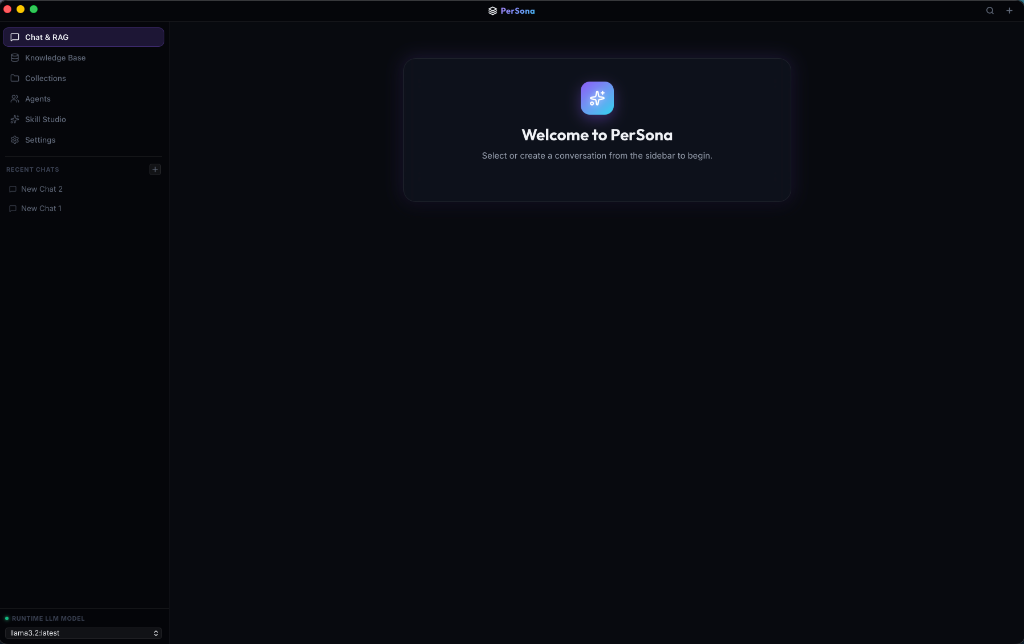
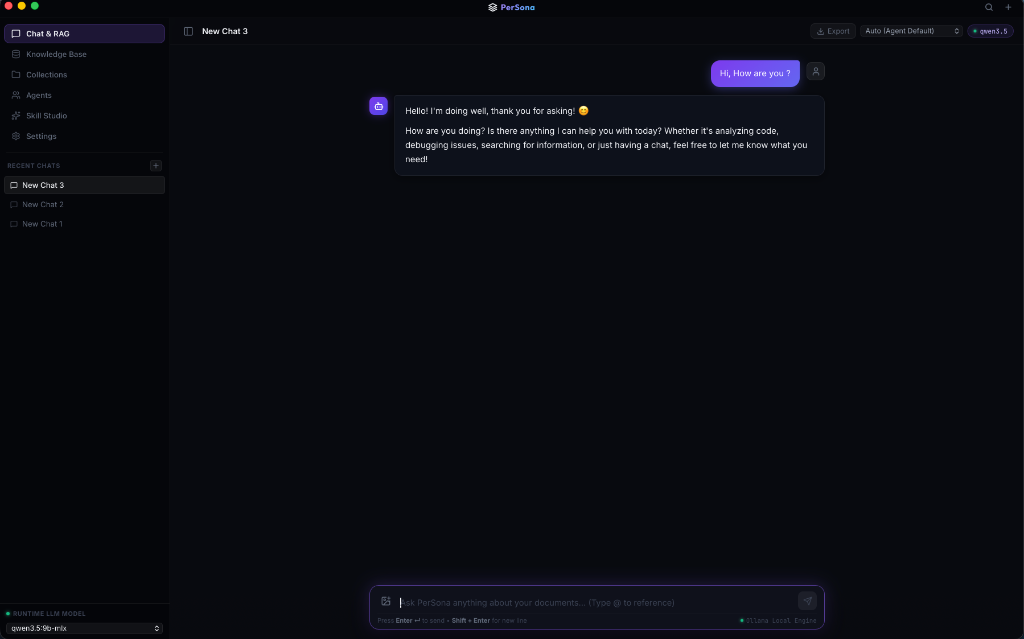
docs(screenshots): update screenshots with new UI theme and active chat session

diff --git a/README.md b/README.md
@@ -29,9 +29,15 @@ Conversational search with direct citations, document previews, and streaming re
 
 <br/><br/>
 
-### 📚 Knowledge Base & Collections
+### 📚 Knowledge Base
 Manage document indexing, categories, collections, and vector search.
 <img src="docs/screenshots/knowledge-base.png" alt="Knowledge Base View" width="850" />
+
+<br/><br/>
+
+### 📁 Isolated Collections
+Group and isolate documents into specific vector workspaces.
+<img src="docs/screenshots/collections.png" alt="Collections View" width="850" />
 
 <br/><br/>
 
@@ -46,6 +52,7 @@ Specialized AI personas with customized instructions and assigned skill sets.
 <img src="docs/screenshots/agents.png" alt="Custom Agents View" width="850" />
 
 </div>
+
 
 
 ## How It Works
